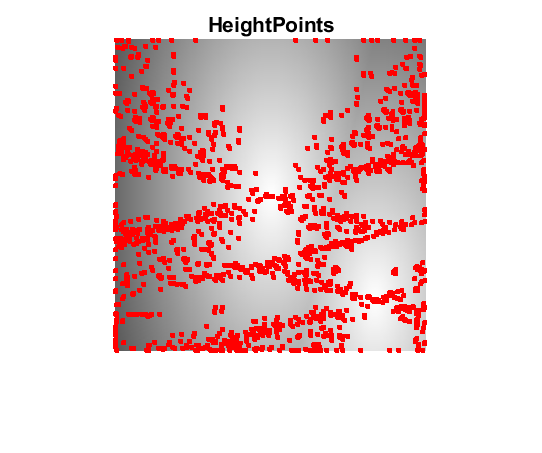
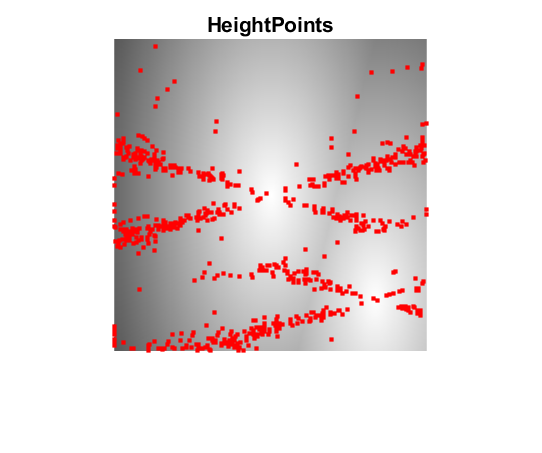
[HeighPoints] : Trying to solve issue with linearity

diff --git a/MATLAB/gradientMTLB.m b/MATLAB/gradientMTLB.m
@@ -53,7 +53,7 @@ hold off
 % close all
 
 function res = almostZero(val)
-    res = abs(val) <= 0.00000000001;        
+    res = abs(val) <= 0.000000000001;   
 end
 
 function res = almostEqual(val1, val2)
@@ -108,6 +108,23 @@ function [hessGradientX,hessGradientY] = hessianXgradient(img)
     end
 end
 
+function isLin = pixelIsLinear(hessVal, gxValue, gyValue)
+    [a,b,c] = getHessianABC(hessVal);
+    hessGradientX = a*gxValue + b*gyValue;
+    hessGradientY = b*gxValue + c*gyValue;
+    
+    determinant = hessGradientX*gyValue - hessGradientY*gxValue;    
+    isLin = determinant == 0 && ~(almostZero(hessGradientX*gyValue) && almostZero(hessGradientY*gxValue));
+    
+    if isLin
+        hessGradientX
+        hessGradientY
+        gxValue
+        gyValue
+    end
+    
+end
+
 function isLin = areLambdaLinear(hessMat, gxVal, gyVal)
     [a,b,c] = getHessianABC(hessMat);
     if ~almostZero(gyVal) && ~almostZero(gxVal)
@@ -142,7 +159,7 @@ function ptList = heightPoints(img)
                 hessVal = hessian(iGxx, iGyy, iGxy, x, y);
                 eigVals = eig(hessVal);
                 if ~(almostZero(eigVals(1)) || almostZero(eigVals(2)) || almostEqual(eigVals(1), eigVals(2)))
-                    if areLambdaLinear(hessVal, gxValue, gyValue)
+                    if pixelIsLinear(hessVal, gxValue, gyValue)
                         ptList(1,vals+1) = x;
                         ptList(2,vals+1) = y;
                         vals = vals+1;
